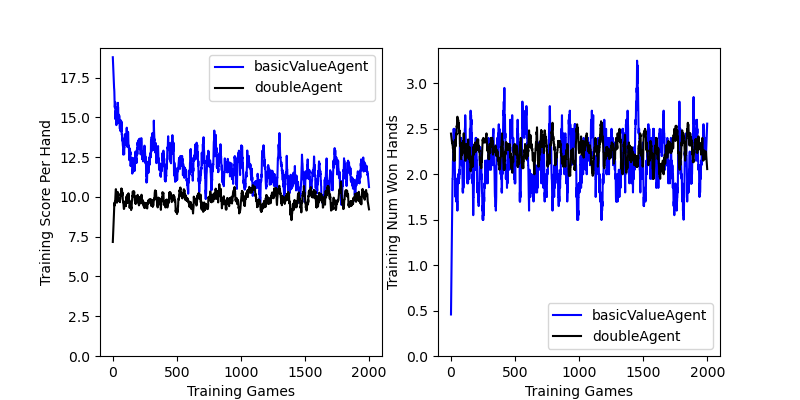
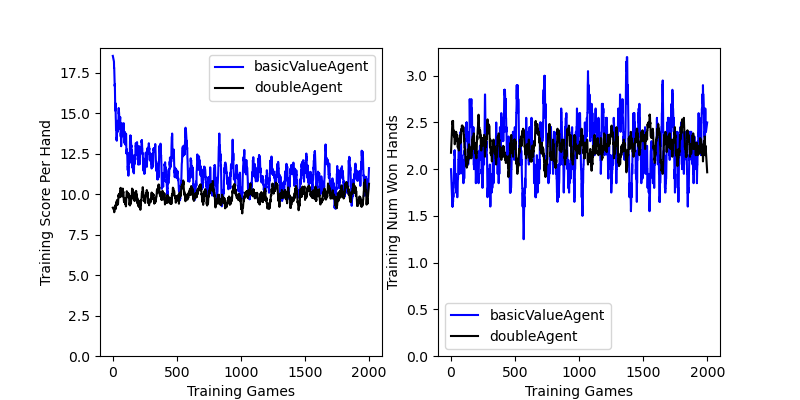
trainValue against double, not persistent
Ran all of them, using the new standard choices for lambda (0.5) and alpha (3e-5)

diff --git a/experiments/valueAgentELOs.py b/experiments/valueAgentELOs.py
@@ -37,12 +37,8 @@ trainedNetworks = [
     'name':'basicValueAgent < dominoeAgent',
     'agent':da.basicValueAgent,
     'type':0},
-    {'path':networkPath/'trainValueAgent_basicValueAgent_against_persistentLineAgent.npy',
-    'name':'basicValueAgent < persistentLineAgent',
-    'agent':da.basicValueAgent,
-    'type':0},
-    {'path':networkPath/'multiStageTrainValueAgent_basicValueAgent.npy',
-    'name':'basicValueAgent < multiStage',
+    {'path':networkPath/'trainValueAgent_basicValueAgent_against_doubleAgent.npy',
+    'name':'basicValueAgent < doubleAgent',
     'agent':da.basicValueAgent,
     'type':0},
 
@@ -51,14 +47,10 @@ trainedNetworks = [
     'name':'lineValueAgent < dominoeAgent',
     'agent':da.lineValueAgent,
     'type':1},
-    {'path':networkPath/'trainValueAgent_lineValueAgent_against_persistentLineAgent.npy',
-    'name':'lineValueAgent < persistentLineAgent',
+    {'path':networkPath/'trainValueAgent_lineValueAgent_against_doubleAgent.npy',
+    'name':'lineValueAgent < doubleAgent',
     'agent':da.lineValueAgent,
     'type':1},
-    {'path':networkPath/'multiStageTrainValueAgent_lineValueAgent.npy',
-    'name':'lineValueAgent < multiStage',
-    'agent':da.lineValueAgent,
-    'type':1}
 ]
 numTrained = len(trainedNetworks)
 
@@ -80,11 +72,11 @@ def handleArguments():
     parser = argparse.ArgumentParser(description='Run dominoes experiment.')
     parser.add_argument('-np','--num-players',type=int, default=4, help='the number of players for each game')
     parser.add_argument('-hd','--highest-dominoe',type=int, default=9, help='highest dominoe value in the set')
-    parser.add_argument('-ng','--num-games',type=int, default=5000, help='how many games to play to estimate ELO')
+    parser.add_argument('-ng','--num-games',type=int, default=4000, help='how many games to play to estimate ELO')
     # note: ELO is probability based, so increasing the number of rounds will usually exaggerate differences in ELO
     parser.add_argument('-nr','--num-rounds',type=int, default=None, help='how many rounds to play for each game')
     parser.add_argument('-ne','--num-each',type=int, default=2, help='how many copies of each agent to use in the league') # helps get a better average of ELO scores
-    parser.add_argument('-fe','--fraction-estimate',type=float, default=0.2, help='final fraction of elo estimates to use')
+    parser.add_argument('-fe','--fraction-estimate',type=float, default=0.25, help='final fraction of elo estimates to use')
     parser.add_argument('--nosave',default=False,action='store_true')
     parser.add_argument('--justplot',default=False,action='store_true')
 

diff --git a/experiments/README.md b/experiments/README.md
@@ -29,7 +29,6 @@ have a question about an experiment or an idea for a new one, let me know!
 ### Primary Experimental Narrative
 - [Basic Agent ELOs](basicAgentELOs.py)
 - [Training a TD-Lambda Agent](trainValueAgent.py)
-- [Multistage Training of a TD-Lambda Agent](multiStageTraining.py)
 - [Performance of TD-Lambda Agents](valueAgentELOs.py)
 
 ### Additional Curiosities
